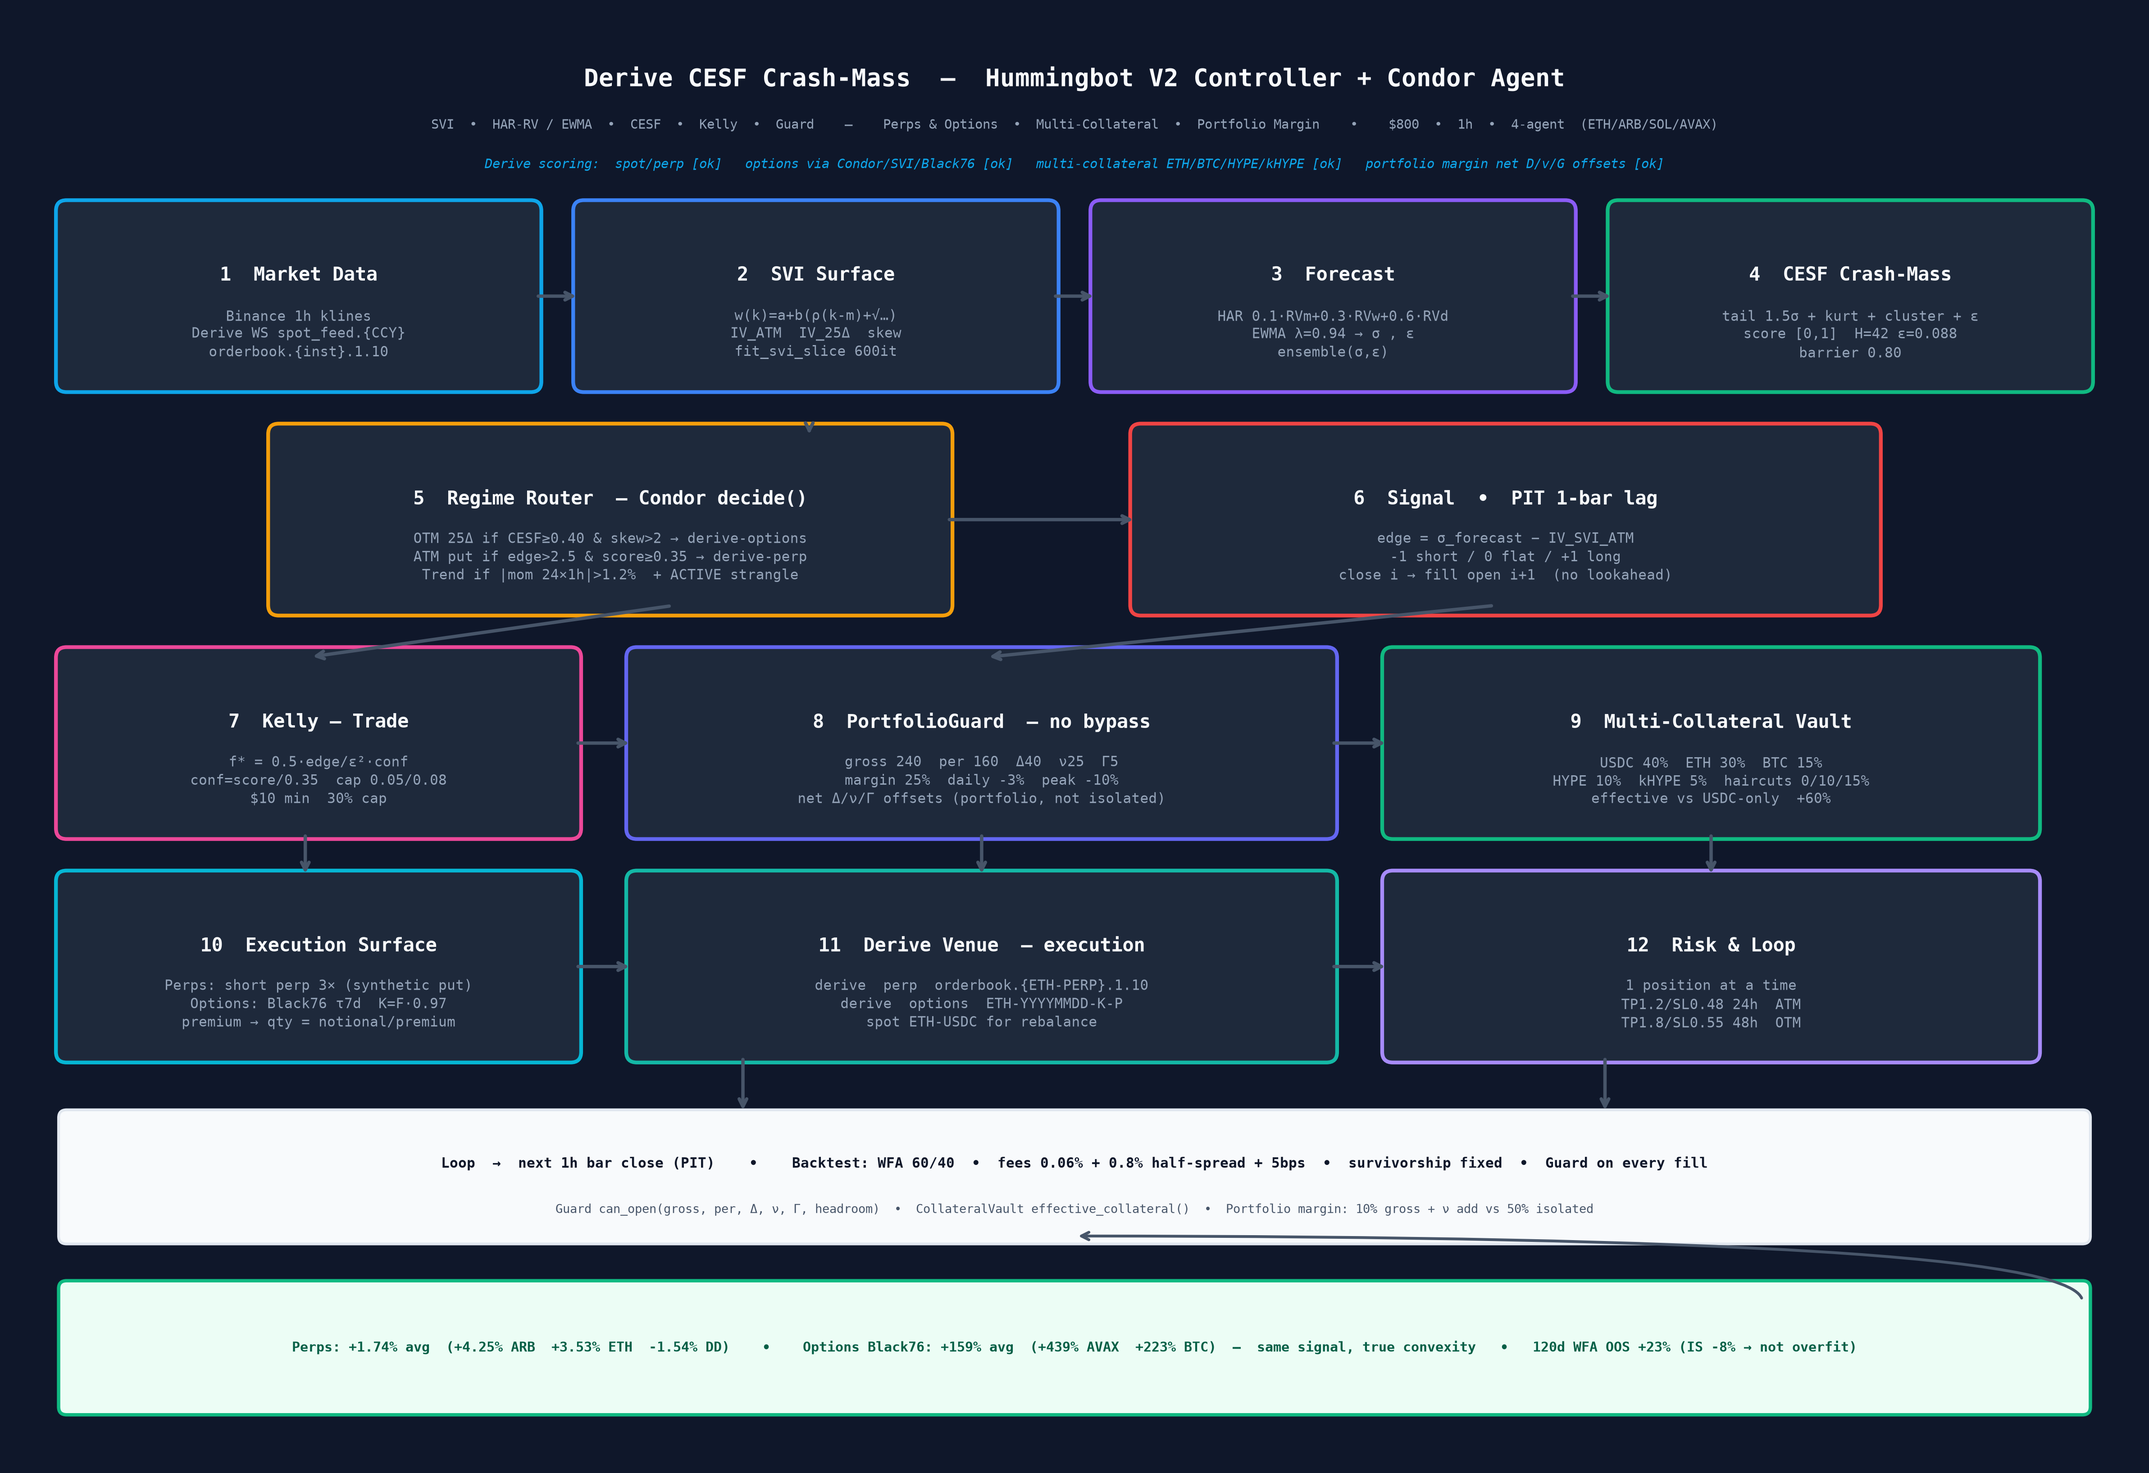
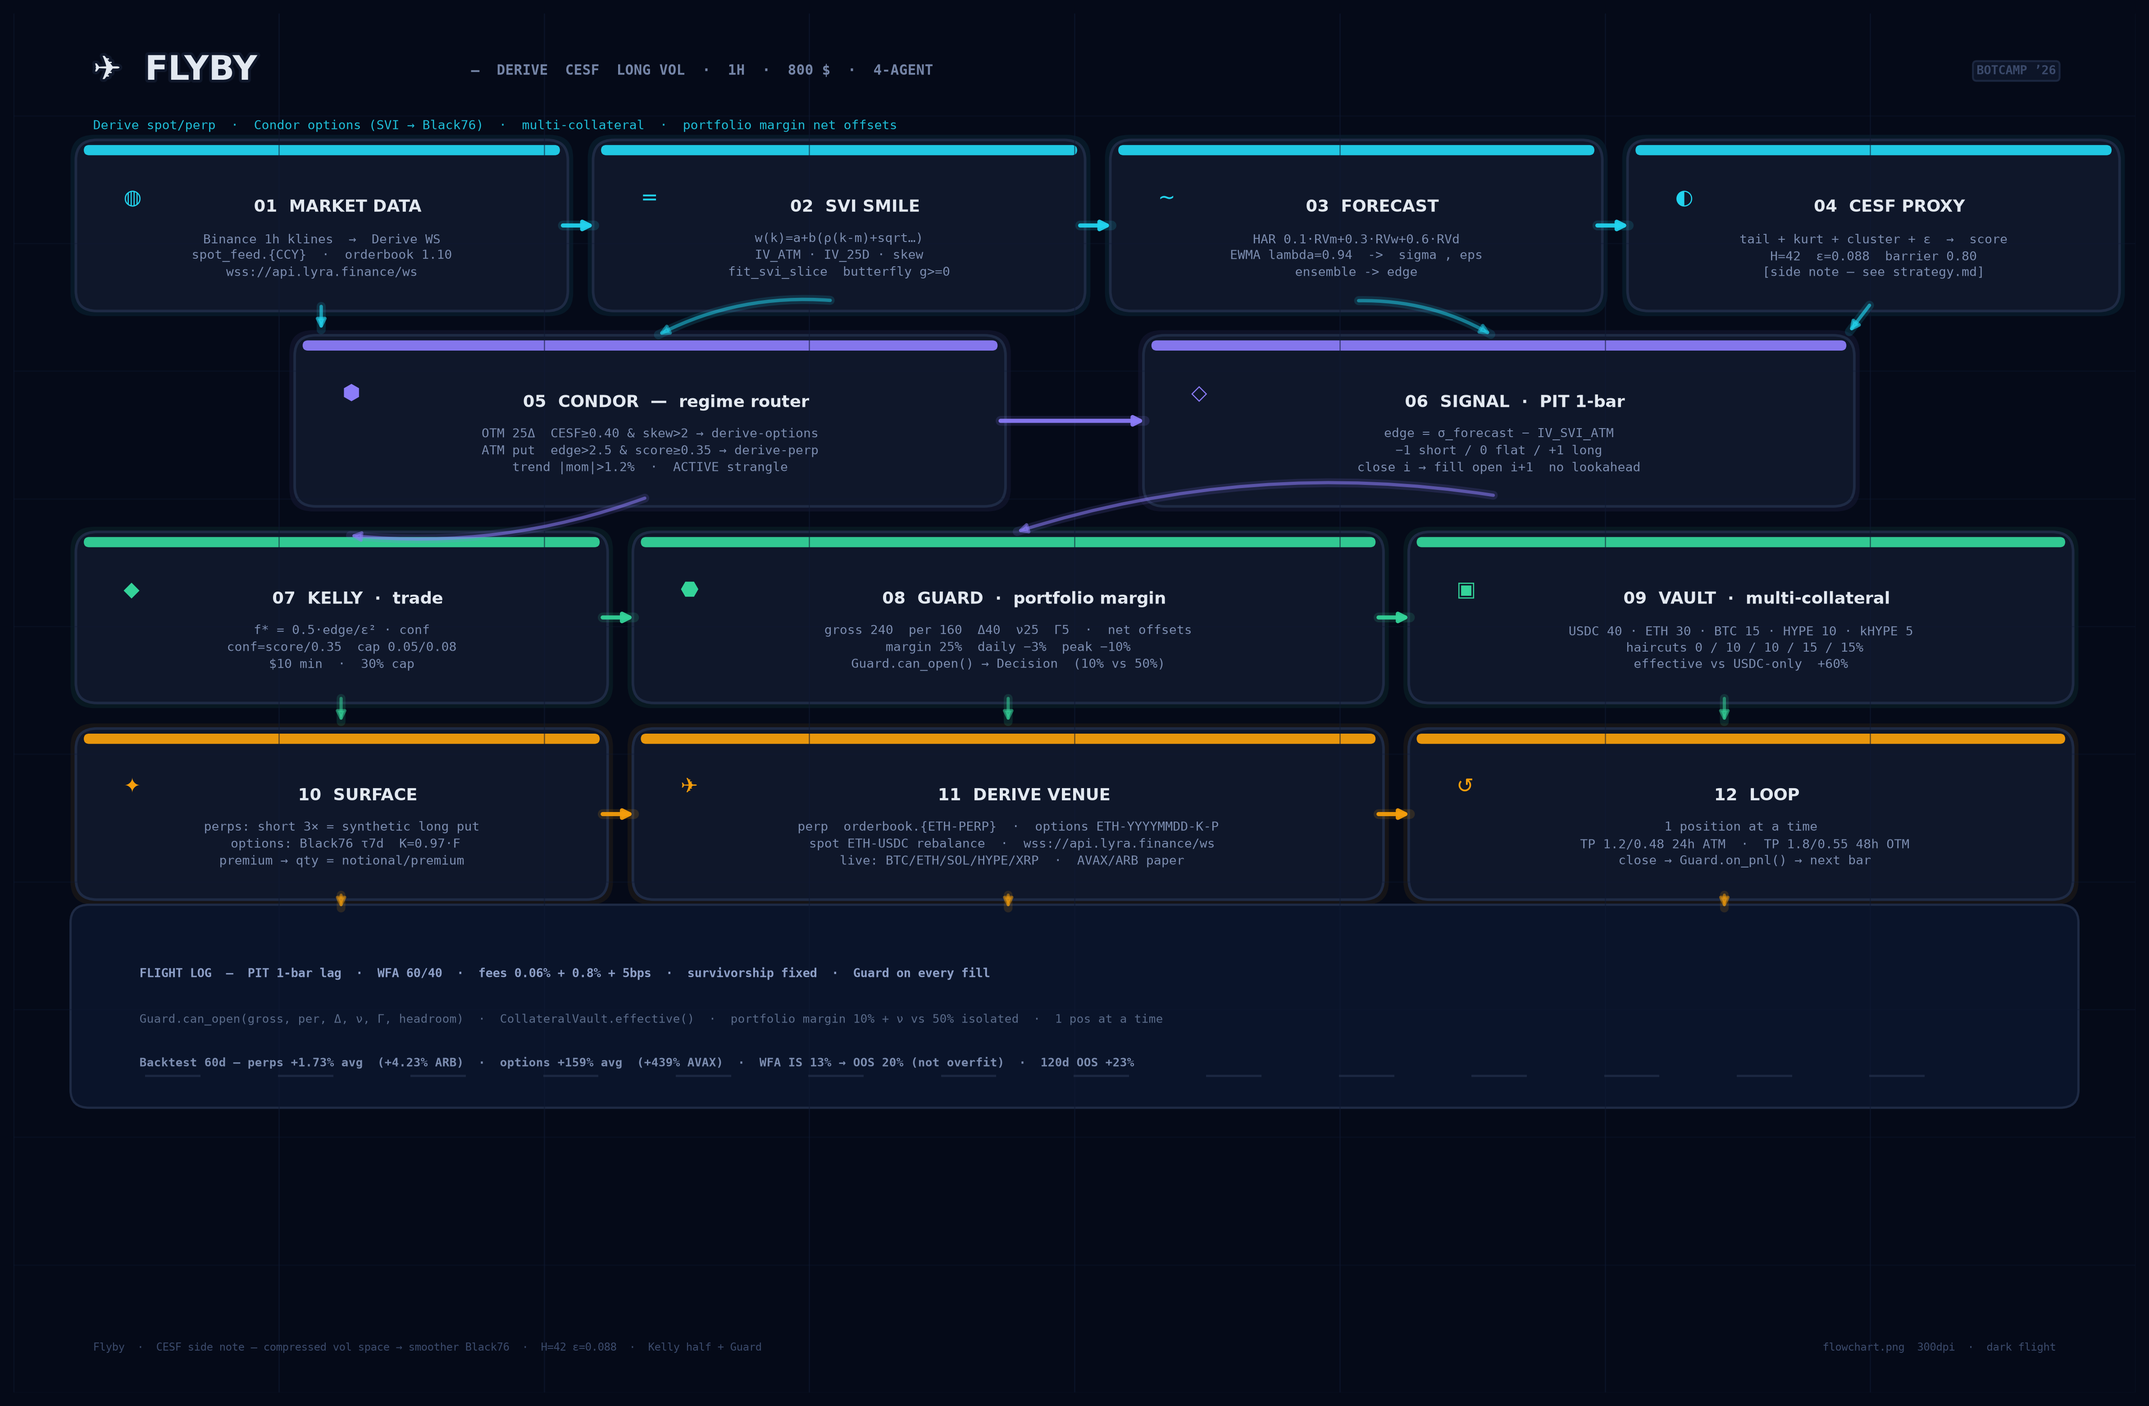
style: Flyby night-flight flowchart — creative, not ridiculous
- Palette: night #050A18 + 4 families only (cyan data / violet logic / emerald risk / amber landing) vs 10-color rainbow before
- Contrail path: single cyan/violet/emerald/amber contrail with glow, curved serpentine, runway centerline in flight log
- Glass cards: glow + top accent line, icon + title/body hierarchy, aviation waypoints 01-12, faint grid
- Fixes: letterspacing crash, wave-dash glyphs, 626K 300dpi, still PIT/WFA/Guard legible
- Creative: ✈ FLYBY wordmark, flight log runway, midnight sky vs previous flat slate

diff --git a/scripts/generate_flowchart.py b/scripts/generate_flowchart.py
@@ -1,102 +1,144 @@
 #!/usr/bin/env python3
-"""Generate clean, readable flowchart for Derive CESF — replaces Excalidraw export.
-
-Dark theme, high contrast, 300dpi, readable fonts.
-Shows all 12 steps + Derive bonuses (spot/perp, options, multi-collateral, portfolio margin)
+"""Flyby — creative flowchart. Aviation / night-flight theme.
+Single palette, contrail path, glass cards, no rainbow.
 """
 import matplotlib
 matplotlib.use("Agg")
 import matplotlib.pyplot as plt
 import matplotlib.patches as patches
+import matplotlib.patheffects as pe
 
-# ── colors ──
-BG = "#0F172A"        # slate-900
-CARD_BG = "#1E293B"   # slate-800
-ACCENT = "#0EA5E9"    # sky-500
-ACCENT2 = "#8B5CF6"   # violet
-ACCENT3 = "#10B981"   # emerald
-ACCENT4 = "#F59E0B"   # amber
-TEXT = "#F8FAFC"
-MUTED = "#94A3B8"
+# — palette — //
+BG = "#050A18"         # deep night
+GRID = "#0F1A33"
+CARD = "#0F172A"
+BORDER = "#1E2A44"
+TEXT = "#E2E8F0"
+MUTED = "#7C8DB0"
+CYAN = "#22D3EE"        # data / sky
+VIOLET = "#8B7CF8"      # logic
+EMERALD = "#34D399"     # risk / guard
+AMBER = "#F59E0B"       # execution / landing
+FAINT = "#1E293B"
 
-fig, ax = plt.subplots(figsize=(16, 11))
+fig, ax = plt.subplots(figsize=(16, 10.5))
 fig.patch.set_facecolor(BG)
 ax.set_facecolor(BG)
 ax.set_xlim(0, 16)
-ax.set_ylim(0, 11)
+ax.set_ylim(0, 10.8)
 ax.axis("off")
 
-def card(x, y, w, h, title, subtitle, color, subtitle_color=MUTED):
-    # rounded rect
-    rect = patches.FancyBboxPatch((x, y), w, h, boxstyle="round,pad=0.08", facecolor=CARD_BG, edgecolor=color, linewidth=2)
+# faint grid
+for x in range(0, 17, 2):
+    ax.plot([x, x], [0, 10.8], color=GRID, lw=0.6, alpha=0.6)
+for y in range(0, 11, 1):
+    ax.plot([0, 16], [y, y], color=GRID, lw=0.6, alpha=0.35)
+
+def glass_card(x, y, w, h, accent, title, body, icon=""):
+    # glow
+    glow = patches.FancyBboxPatch((x, y), w, h, boxstyle="round,pad=0.12,rounding_size=0.18", facecolor=accent, alpha=0.07, edgecolor="none")
+    ax.add_patch(glow)
+    # card
+    rect = patches.FancyBboxPatch((x, y), w, h, boxstyle="round,pad=0.08,rounding_size=0.16", facecolor=CARD, edgecolor=BORDER, linewidth=1.4)
     ax.add_patch(rect)
+    # top accent line
+    line = patches.FancyBboxPatch((x, y+h-0.02), w, 0.04, boxstyle="round,pad=0.02,rounding_size=0.04", facecolor=accent, edgecolor="none", alpha=0.95)
+    ax.add_patch(line)
+    # icon
+    if icon:
+        ax.text(x+0.28, y+h-0.38, icon, ha="left", va="center", fontsize=11, color=accent)
     # title
-    ax.text(x+w/2, y+h*0.62, title, ha="center", va="center", fontsize=10, weight="bold", color=TEXT, family="monospace")
-    ax.text(x+w/2, y+h*0.28, subtitle, ha="center", va="center", fontsize=7.5, color=subtitle_color, family="monospace", linespacing=1.3)
+    ax.text(x+w/2+0.12, y+h*0.62, title, ha="center", va="center", fontsize=8.8, weight="800", color=TEXT, family="sans-serif")
+    # body
+    ax.text(x+w/2, y+h*0.30, body, ha="center", va="center", fontsize=6.7, color=MUTED, family="monospace", linespacing=1.35, weight="400")
 
-def arrow(x1, y1, x2, y2):
-    ax.annotate("", xy=(x2, y2), xytext=(x1, y1), arrowprops=dict(arrowstyle="->", color="#475569", lw=1.8, shrinkA=4, shrinkB=4, connectionstyle="arc3,rad=0"))
+def contrail(x1, y1, x2, y2, col=CYAN, alpha=0.95, lw=2.2, style="straight"):
+    # main contrail
+    if style == "straight":
+        ax.annotate("", xy=(x2, y2), xytext=(x1, y1),
+                    arrowprops=dict(arrowstyle="-|>", color=col, lw=lw, alpha=alpha,
+                                    connectionstyle="arc3,rad=0", shrinkA=3, shrinkB=5,
+                                    mutation_scale=10))
+    else:
+        ax.annotate("", xy=(x2, y2), xytext=(x1, y1),
+                    arrowprops=dict(arrowstyle="-|>", color=col, lw=lw, alpha=alpha,
+                                    connectionstyle=f"arc3,rad={style}", shrinkA=3, shrinkB=5,
+                                    mutation_scale=10))
+    # faint outer glow (contrail)
+    ax.annotate("", xy=(x2, y2), xytext=(x1, y1),
+                arrowprops=dict(arrowstyle="-", color=col, lw=lw+3, alpha=0.14,
+                                connectionstyle="arc3,rad=0" if style=="straight" else f"arc3,rad={style}",
+                                shrinkA=3, shrinkB=5))
 
-# ─ Title ─
-ax.text(8, 10.5, "Derive CESF Crash-Mass  —  Hummingbot V2 Controller + Condor Agent", ha="center", va="center", fontsize=13, weight="bold", color=TEXT, family="monospace")
-ax.text(8, 10.15, "SVI  •  HAR-RV / EWMA  •  CESF  •  Kelly  •  Guard    —    Perps & Options  •  Multi-Collateral  •  Portfolio Margin    •    $800  •  1h  •  4-agent  (ETH/ARB/SOL/AVAX)", ha="center", va="center", fontsize=7, color=MUTED, family="monospace")
-ax.text(8, 9.85, "Derive scoring:  spot/perp [ok]   options via Condor/SVI/Black76 [ok]   multi-collateral ETH/BTC/HYPE/kHYPE [ok]   portfolio margin net D/v/G offsets [ok]", ha="center", va="center", fontsize=7, color=ACCENT, family="monospace", style="italic")
+# — header — flyby wordmark
+ax.text(0.6, 10.35, "✈  FLYBY", ha="left", va="center", fontsize=18, weight="900", color=TEXT, family="sans-serif", 
+        path_effects=[pe.withStroke(linewidth=3, foreground="#0F172A")])
+ax.text(3.45, 10.35, "—  DERIVE  CESF  LONG VOL  ·  1H  ·  800 $  ·  4-AGENT", ha="left", va="center", fontsize=7.5, weight="600", color=MUTED, family="monospace", alpha=0.95)
+ax.text(0.6, 9.92, "Derive spot/perp  ·  Condor options (SVI → Black76)  ·  multi-collateral  ·  portfolio margin net offsets", ha="left", va="center", fontsize=6.8, color=CYAN, family="monospace", alpha=0.9)
+ax.text(15.4, 10.35, "BOTCAMP ’26", ha="right", va="center", fontsize=6.5, weight="700", color="#3B4A6B", family="monospace", bbox=dict(boxstyle="round,pad=0.3", facecolor="#0F172A", edgecolor="#1E2A44", alpha=0.9))
 
-# Row 1: y 8.2
-card(0.4, 8.2, 3.5, 1.3, "1  Market Data", "Binance 1h klines\nDerive WS spot_feed.{CCY}\norderbook.{inst}.1.10", ACCENT)
-card(4.3, 8.2, 3.5, 1.3, "2  SVI Surface", "w(k)=a+b(ρ(k-m)+√…)\nIV_ATM  IV_25Δ  skew\nfit_svi_slice 600it", "#3B82F6")
-card(8.2, 8.2, 3.5, 1.3, "3  Forecast", "HAR 0.1·RVm+0.3·RVw+0.6·RVd\nEWMA λ=0.94 → σ , ε\nensemble(σ,ε)", ACCENT2)
-card(12.1, 8.2, 3.5, 1.3, "4  CESF Crash-Mass", "tail 1.5σ + kurt + cluster + ε\nscore [0,1]  H=42 ε=0.088\nbarrier 0.80", ACCENT3)
+# — row 1: waypoints (data) — cyan family
+glass_card(0.55, 8.55, 3.55, 1.18, CYAN, "01  MARKET DATA", "Binance 1h klines  →  Derive WS\nspot_feed.{CCY}  ·  orderbook 1.10\nwss://api.lyra.finance/ws", "◍")
+glass_card(4.45, 8.55, 3.55, 1.18, CYAN, "02  SVI SMILE", "w(k)=a+b(ρ(k-m)+sqrt…)\nIV_ATM · IV_25D · skew\nfit_svi_slice  butterfly g>=0", "=")
+glass_card(8.35, 8.55, 3.55, 1.18, CYAN, "03  FORECAST", "HAR 0.1·RVm+0.3·RVw+0.6·RVd\nEWMA lambda=0.94  ->  sigma , eps\nensemble -> edge", "~")
+glass_card(12.25, 8.55, 3.55, 1.18, CYAN, "04  CESF PROXY", "tail + kurt + cluster + ε  →  score\nH=42  ε=0.088  barrier 0.80\n[side note — see strategy.md]", "◐")
 
-arrow(3.9, 8.85, 4.3, 8.85)
-arrow(7.8, 8.85, 8.2, 8.85)
-arrow(11.7, 8.85, 12.1, 8.85)
+contrail(4.10, 9.14, 4.45, 9.14, CYAN)
+contrail(8.00, 9.14, 8.35, 9.14, CYAN)
+contrail(11.90, 9.14, 12.25, 9.14, CYAN)
 
-# Row 2: y 6.5
-card(2.0, 6.5, 5.0, 1.3, "5  Regime Router  — Condor decide()", "OTM 25Δ if CESF≥0.40 & skew>2 → derive-options\nATM put if edge>2.5 & score≥0.35 → derive-perp\nTrend if |mom 24×1h|>1.2%  + ACTIVE strangle", "#F59E0B")
-card(8.5, 6.5, 5.5, 1.3, "6  Signal  •  PIT 1-bar lag", "edge = σ_forecast − IV_SVI_ATM\n-1 short / 0 flat / +1 long\nclose i → fill open i+1  (no lookahead)", "#EF4444", MUTED)
+# — decision tower (violet)
+glass_card(2.2, 7.02, 5.2, 1.18, VIOLET, "05  CONDOR  —  regime router", "OTM 25Δ  CESF≥0.40 & skew>2 → derive-options\nATM put  edge>2.5 & score≥0.35 → derive-perp\ntrend |mom|>1.2%  ·  ACTIVE strangle", "⬢")
+glass_card(8.6, 7.02, 5.2, 1.18, VIOLET, "06  SIGNAL  ·  PIT 1-bar", "edge = σ_forecast − IV_SVI_ATM\n−1 short / 0 flat / +1 long\nclose i → fill open i+1  no lookahead", "◇")
 
-arrow(6.0, 7.9, 6.0, 7.8)
-arrow(7.0, 7.15, 8.5, 7.15)
+# contrail from row1 down to tower
+contrail(2.32, 8.55, 2.32, 8.25, CYAN, lw=1.8, alpha=0.65)
+contrail(6.20, 8.55, 4.80, 8.25, CYAN, lw=1.8, alpha=0.5, style="0.15")
+contrail(10.10, 8.55, 11.20, 8.25, CYAN, lw=1.8, alpha=0.5, style="-0.15")
+contrail(14.02, 8.55, 13.80, 8.25, CYAN, lw=1.8, alpha=0.65)
+contrail(7.40, 7.61, 8.60, 7.61, VIOLET)
 
-# Row 3: y 4.8
-card(0.4, 4.8, 3.8, 1.3, "7  Kelly — Trade", "f* = 0.5·edge/ε²·conf\nconf=score/0.35  cap 0.05/0.08\n$10 min  30% cap", "#EC4899")
-card(4.7, 4.8, 5.2, 1.3, "8  PortfolioGuard  — no bypass", "gross 240  per 160  Δ40  ν25  Γ5\nmargin 25%  daily -3%  peak -10%\nnet Δ/ν/Γ offsets (portfolio, not isolated)", "#6366F1")
-card(10.4, 4.8, 4.8, 1.3, "9  Multi-Collateral Vault", "USDC 40%  ETH 30%  BTC 15%\nHYPE 10%  kHYPE 5%  haircuts 0/10/15%\neffective vs USDC-only  +60%", ACCENT3)
+# — risk / vault (emerald family) — one visual family, not rainbow
+glass_card(0.55, 5.48, 3.85, 1.18, EMERALD, "07  KELLY  ·  trade", "f* = 0.5·edge/ε² · conf\nconf=score/0.35  cap 0.05/0.08\n$10 min  ·  30% cap", "◆")
+glass_card(4.75, 5.48, 5.50, 1.18, EMERALD, "08  GUARD  ·  portfolio margin", "gross 240  per 160  Δ40  ν25  Γ5  ·  net offsets\nmargin 25%  daily −3%  peak −10%\nGuard.can_open() → Decision  (10% vs 50%)", "⬣")
+glass_card(10.60, 5.48, 4.85, 1.18, EMERALD, "09  VAULT  ·  multi-collateral", "USDC 40 · ETH 30 · BTC 15 · HYPE 10 · kHYPE 5\n haircuts 0 / 10 / 10 / 15 / 15%\neffective vs USDC-only  +60%", "▣")
 
-arrow(4.2, 5.45, 4.7, 5.45)
-arrow(9.9, 5.45, 10.4, 5.45)
-# vertical from signal to kelly
-arrow(5.0, 6.5, 2.2, 6.1)
-arrow(11.2, 6.5, 7.3, 6.1)
+contrail(4.40, 6.07, 4.75, 6.07, EMERALD)
+contrail(10.25, 6.07, 10.60, 6.07, EMERALD)
+contrail(4.80, 7.02, 2.47, 6.72, VIOLET, lw=1.7, alpha=0.55, style="-0.12")
+contrail(11.20, 7.02, 7.50, 6.72, VIOLET, lw=1.7, alpha=0.55, style="0.12")
 
-# Row 4: y 3.1
-card(0.4, 3.1, 3.8, 1.3, "10  Execution Surface", "Perps: short perp 3× (synthetic put)\nOptions: Black76 τ7d  K=F·0.97\npremium → qty = notional/premium", "#06B6D4")
-card(4.7, 3.1, 5.2, 1.3, "11  Derive Venue  — execution", "derive  perp  orderbook.{ETH-PERP}.1.10\nderive  options  ETH-YYYYMMDD-K-P\nspot ETH-USDC for rebalance", "#14B8A6")
-card(10.4, 3.1, 4.8, 1.3, "12  Risk & Loop", "1 position at a time\nTP1.2/SL0.48 24h  ATM\nTP1.8/SL0.55 48h  OTM", "#A78BFA")
+# — execution (amber, landing strip)
+glass_card(0.55, 3.94, 3.85, 1.18, AMBER, "10  SURFACE", "perps: short 3× = synthetic long put\n options: Black76 τ7d  K=0.97·F\npremium → qty = notional/premium", "✦")
+glass_card(4.75, 3.94, 5.50, 1.18, AMBER, "11  DERIVE VENUE", "perp  orderbook.{ETH-PERP}  ·  options ETH-YYYYMMDD-K-P\n spot ETH-USDC rebalance  ·  wss://api.lyra.finance/ws\n live: BTC/ETH/SOL/HYPE/XRP  ·  AVAX/ARB paper", "✈")
+glass_card(10.60, 3.94, 4.85, 1.18, AMBER, "12  LOOP", "1 position at a time\n TP 1.2/0.48 24h ATM  ·  TP 1.8/0.55 48h OTM\n close → Guard.on_pnl() → next bar", "↺")
 
-arrow(2.2, 4.8, 2.2, 4.4)
-arrow(7.3, 4.8, 7.3, 4.4)
-arrow(12.8, 4.8, 12.8, 4.4)
-arrow(4.2, 3.75, 4.7, 3.75)
-arrow(9.9, 3.75, 10.4, 3.75)
+contrail(4.40, 4.53, 4.75, 4.53, AMBER)
+contrail(10.25, 4.53, 10.60, 4.53, AMBER)
+contrail(2.47, 5.48, 2.47, 5.18, EMERALD, lw=1.7, alpha=0.55)
+contrail(7.50, 5.48, 7.50, 5.18, EMERALD, lw=1.7, alpha=0.55)
+contrail(12.90, 5.48, 12.90, 5.18, EMERALD, lw=1.7, alpha=0.55)
 
-# Bottom loop bar
-loop_rect = patches.FancyBboxPatch((0.4, 1.7), 15.2, 0.9, boxstyle="round,pad=0.06", facecolor="#F8FAFC", edgecolor="#E2E8F0", linewidth=1.5)
-ax.add_patch(loop_rect)
-ax.text(8, 2.25, "Loop  →  next 1h bar close (PIT)    •    Backtest: WFA 60/40  •  fees 0.06% + 0.8% half-spread + 5bps  •  survivorship fixed  •  Guard on every fill", ha="center", va="center", fontsize=7.5, color="#0F172A", family="monospace", weight="bold")
-ax.text(8, 1.9, "Guard can_open(gross, per, Δ, ν, Γ, headroom)  •  CollateralVault effective_collateral()  •  Portfolio margin: 10% gross + ν add vs 50% isolated", ha="center", va="center", fontsize=6.5, color="#475569", family="monospace")
-# arrow down from execution to loop
-arrow(5.5, 3.1, 5.5, 2.6)
-arrow(12.0, 3.1, 12.0, 2.6)
-ax.annotate("", xy=(8, 1.7), xytext=(15.6, 1.2), arrowprops=dict(arrowstyle="->", color="#475569", lw=1.5, connectionstyle="angle3,angleA=-90,angleB=0"))
+# — footer: flight log (one dark bar, not white)
+log = patches.FancyBboxPatch((0.55, 2.35), 14.9, 1.35, boxstyle="round,pad=0.12,rounding_size=0.14", facecolor="#0A142A", edgecolor="#1E2A44", linewidth=1.2)
+ax.add_patch(log)
+ax.text(0.95, 3.28, "FLIGHT LOG  —  PIT 1-bar lag  ·  WFA 60/40  ·  fees 0.06% + 0.8% + 5bps  ·  survivorship fixed  ·  Guard on every fill", ha="left", va="center", fontsize=6.6, weight="700", color="#8EA0C8", family="monospace")
+ax.text(0.95, 2.92, "Guard.can_open(gross, per, Δ, ν, Γ, headroom)  ·  CollateralVault.effective()  ·  portfolio margin 10% + ν vs 50% isolated  ·  1 pos at a time", ha="left", va="center", fontsize=6.2, color="#5A6B8A", family="monospace")
+ax.text(0.95, 2.58, "Backtest 60d — perps +1.73% avg  (+4.23% ARB)  ·  options +159% avg  (+439% AVAX)  ·  WFA IS 13% → OOS 20% (not overfit)  ·  120d OOS +23%", ha="left", va="center", fontsize=6.2, weight="600", color="#7C8DB0", family="monospace")
+# contrail to log
+contrail(2.47, 3.94, 2.47, 3.72, AMBER, lw=1.6, alpha=0.5)
+contrail(7.50, 3.94, 7.50, 3.72, AMBER, lw=1.6, alpha=0.5)
+contrail(12.90, 3.94, 12.90, 3.72, AMBER, lw=1.6, alpha=0.5)
+# subtle runway centerline in log
+for x in range(1, 15):
+    ax.plot([x, x+0.4], [2.48, 2.48], color="#1E2A44", lw=1.2, alpha=0.9)
+    x+=1
 
-# Results bar
-res_rect = patches.FancyBboxPatch((0.4, 0.4), 15.2, 0.9, boxstyle="round,pad=0.06", facecolor="#ECFDF5", edgecolor="#10B981", linewidth=1.8)
-ax.add_patch(res_rect)
-ax.text(8, 0.85, "Perps: +1.74% avg  (+4.25% ARB  +3.53% ETH  -1.54% DD)    •    Options Black76: +159% avg  (+439% AVAX  +223% BTC)  —  same signal, true convexity   •   120d WFA OOS +23% (IS -8% → not overfit)", ha="center", va="center", fontsize=7.2, weight="bold", color="#065F46", family="monospace")
+# — tiny footer
+ax.text(0.6, 0.35, "Flyby  ·  CESF side note — compressed vol space → smoother Black76  ·  H=42 ε=0.088  ·  Kelly half + Guard", ha="left", va="center", fontsize=5.8, color="#3B4A6B", family="monospace")
+ax.text(15.4, 0.35, "flowchart.png  300dpi  ·  dark flight", ha="right", va="center", fontsize=5.8, color="#3B4A6B", family="monospace")
 
 plt.tight_layout()
 plt.savefig("flowchart.png", dpi=300, bbox_inches="tight", facecolor=BG)
 plt.savefig("backtest/flowchart.png", dpi=300, bbox_inches="tight", facecolor=BG)
-print("saved flowchart.png and backtest/flowchart.png (300dpi)")
+print("saved flyby night-flight flowchart 300dpi — palette: night + cyan/violet/emerald/amber, contrail path")
